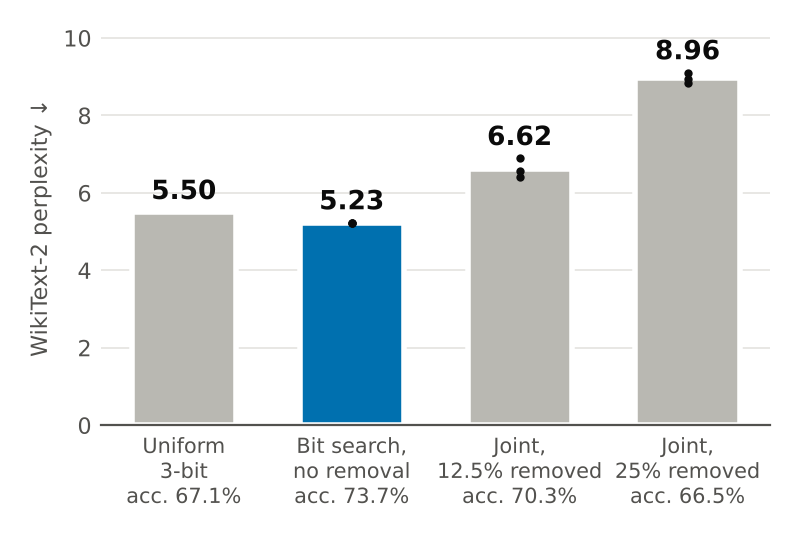
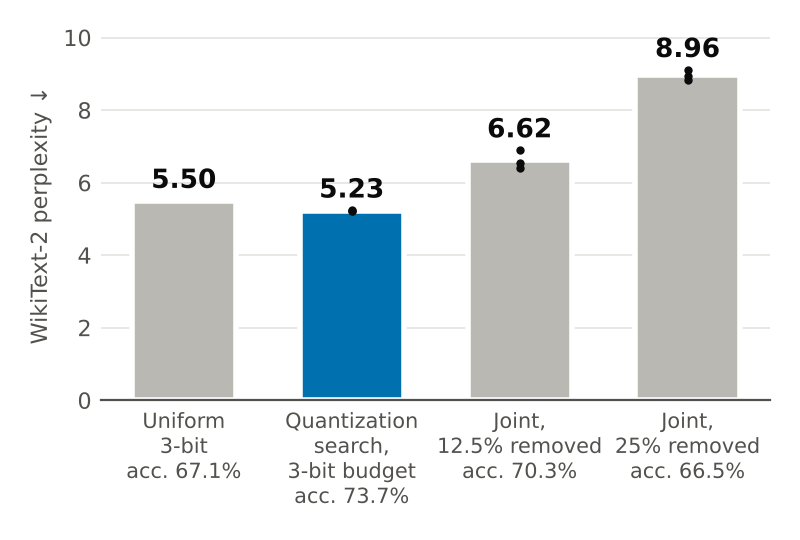
Presentation RQ1 figure: label quantization-only search as 'Quantization search, 3-bit budget'
Claude-Session: https://claude.ai/code/session_01QatW7xd6GXQ3p5RvrhoxV6

diff --git a/scripts/make_presentation_figures.py b/scripts/make_presentation_figures.py
@@ -100,7 +100,7 @@ def style_axes(ax) -> None:
 
 def rq1_figure(out: Path, table: list[dict]) -> None:
     labels = ["E1", "E2", "J12", "E3"]
-    names = ["Uniform\n3-bit", "Bit search,\nno removal", "Joint,\n12.5% removed",
+    names = ["Uniform\n3-bit", "Quantization\nsearch,\n3-bit budget", "Joint,\n12.5% removed",
              "Joint,\n25% removed"]
     acc = accuracy()
     values = {lab: w2(lab) for lab in labels}
